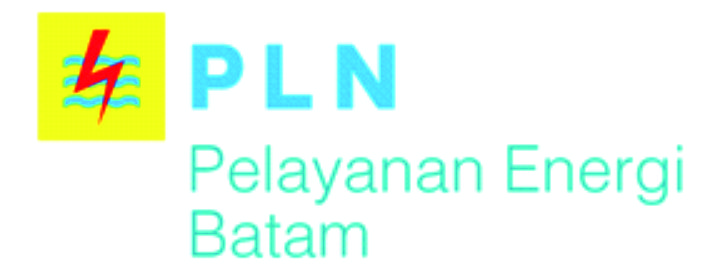
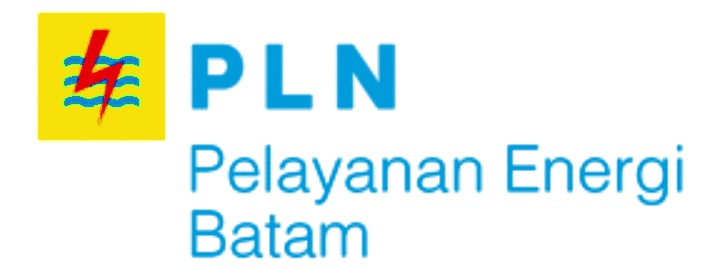
fix(assets): convert pln.jpg & pln2.jpg from CMYK to sRGB, remove contrast-125 filter, and add cache-busting

diff --git a/resources/views/welcome.blade.php b/resources/views/welcome.blade.php
@@ -41,7 +41,7 @@
             {{-- Brand Logos --}}
             <div class="flex items-center gap-2.5 sm:gap-5 min-w-0">
                 <a href="{{ url('/') }}" class="flex items-center gap-2 sm:gap-3.5 min-w-0">
-                    <img src="{{ asset('pln.jpg') }}" alt="PLN Batam" class="h-8 sm:h-11 md:h-12 w-auto object-contain mix-blend-multiply filter contrast-125 flex-shrink-0">
+                    <img src="{{ asset('pln.jpg') }}?v={{ filemtime(public_path('pln.jpg')) }}" alt="PLN Batam" class="h-8 sm:h-11 md:h-12 w-auto object-contain mix-blend-multiply flex-shrink-0">
                     <img src="{{ asset('DI.png') }}" alt="Danantara Indonesia" class="h-5 sm:h-6 md:h-7 w-auto object-contain border-l border-surface-200 pl-2 sm:pl-3.5 block flex-shrink-0">
                     <img src="{{ asset('s2.png') }}?v={{ filemtime(public_path('s2.png')) }}" alt="Logo SIMAK" class="h-7 sm:h-9 md:h-10 w-auto object-contain border-l border-surface-200 pl-2 sm:pl-3.5 block flex-shrink-0">
                 </a>

diff --git a/resources/views/auth/complete-profile.blade.php b/resources/views/auth/complete-profile.blade.php
@@ -16,7 +16,7 @@
         <div class="max-w-6xl mx-auto px-4 sm:px-6 lg:px-8 py-3.5 flex justify-between items-center gap-4">
             {{-- Brand Logos --}}
             <div class="flex items-center gap-2.5 sm:gap-4">
-                <img src="{{ asset('pln.jpg') }}" alt="PLN Batam" class="h-8 sm:h-10 w-auto object-contain mix-blend-multiply filter contrast-125">
+                <img src="{{ asset('pln.jpg') }}?v={{ filemtime(public_path('pln.jpg')) }}" alt="PLN Batam" class="h-8 sm:h-10 w-auto object-contain mix-blend-multiply">
                 <img src="{{ asset('DI.png') }}" alt="Danantara Indonesia" class="h-5 sm:h-6 w-auto object-contain border-l border-surface-200 pl-2.5 sm:pl-3.5">
                 <img src="{{ asset('s2.png') }}?v={{ filemtime(public_path('s2.png')) }}" alt="Logo SIMAK" class="h-7 sm:h-9 w-auto object-contain border-l border-surface-200 pl-2.5 sm:pl-3.5">
             </div>
